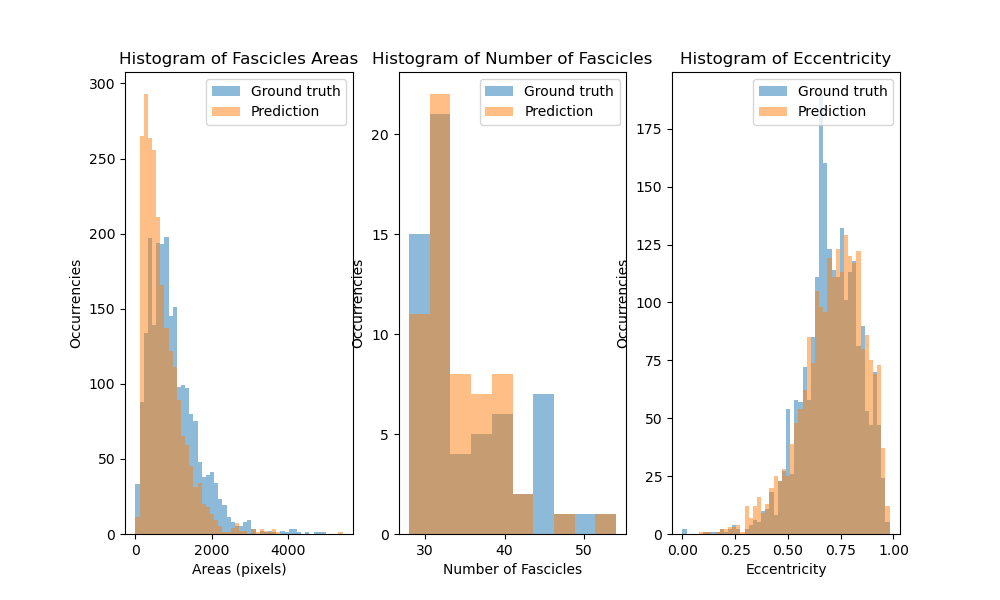
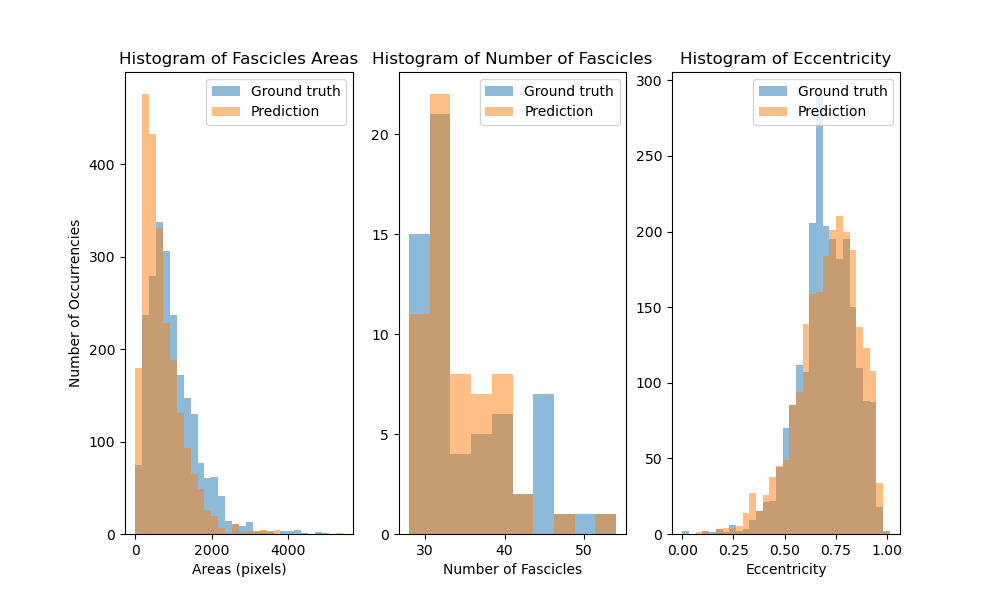
updating visualization

diff --git a/src/visualization.py b/src/visualization.py
@@ -6,6 +6,7 @@ import matplotlib.ticker as ticker
 import numpy as np
 from tensorflow import keras
 import tensorflow_addons as tfa
+import cv2
 from loss import dice_loss, nerve_segmentation_loss, tversky_loss, iou_score, focal_tversky_loss, focal_loss, custom_loss
 from eval import predict_mask, get_model_prediction
 from stats import get_samples, calculate_regions, compute_bins, get_image_histogram, get_dataset_histogram
@@ -26,28 +27,34 @@ def plot_color_histogram(path_list, dataset_path_list, save=False, show=True):
 
     set_hist = get_dataset_histogram(dataset_path_list)
     xticks = [i for i in range(256)]
+    color = ('r', 'g', 'b')
 
-    fig, axs = plt.subplots(len(path_list), 3, figsize=(10, len(path_list) * 2),  gridspec_kw={'width_ratios': [1, 2, 2]})
+    fig, axs = plt.subplots(len(path_list) + 1, 4, figsize=(10, (len(path_list)+1) * 2))
+
+    axs[0, 0].text(0.5, 0.5, 'Average on\ntraining set', horizontalalignment='center', verticalalignment='center', transform=axs[0, 0].transAxes)
+    axs[0, 0].axis('off')
+    for i, col in enumerate(color):
+        axs[0, i+1].plot(xticks, set_hist[i], color=col)
+        axs[0, i+1].set_xlabel('Colour value')
+    axs[0, 1].set_ylabel('% of pixels')
 
     for k, path in enumerate(path_list):
+        k = k+1
         img = np.load(path)
         img_hist = get_image_histogram(img)
-
         axs[k, 0].imshow(img)
+        axs[k, 0].axis('off')
 
-        axs[k, 1].bar(xticks, img_hist[0], color='red', alpha=0.3)
-        axs[k, 1].bar(xticks, img_hist[1], color='green', alpha=0.3)
-        axs[k, 1].bar(xticks, img_hist[2], color='blue', alpha=0.3)
-        # axs[k, 1].set_yscale('log')
+        for i, col in enumerate(color):
+            axs[k, i+1].plot(xticks, img_hist[i], color=col)
+        axs[k, 1].set_ylabel('% of pixels')
 
-        axs[k, 2].bar(xticks, set_hist[0], color='red', alpha=0.3)
-        axs[k, 2].bar(xticks, set_hist[1], color='green', alpha=0.3)
-        axs[k, 2].bar(xticks, set_hist[2], color='blue', alpha=0.3)
-        # axs[k, 2].set_yscale('log')
-
-    axs[0, 0].set_title('Original image')
-    axs[0, 1].set_title('Color histogram\nof image')
-    axs[0, 2].set_title('Color histogram\nof dataset')
+    axs[0, 1].set_title('Histogram of\nR channel')
+    axs[0, 2].set_title('Histogram of\nG channel')
+    axs[0, 3].set_title('Histogram of\nB channel')
+    axs[-1, 1].set_xlabel('Colour value')
+    axs[-1, 2].set_xlabel('Colour value')
+    axs[-1, 3].set_xlabel('Colour value')
 
     if save:
         plt.savefig(out_fname + '/color_histograms.png')
@@ -210,9 +217,9 @@ def plot_fascicles_distribution(paths, test=False, trained_model_checkpoint=None
 
     fig, axs = plt.subplots(1, 3, figsize=(10, 6))
 
-    nbins_area = 50
+    nbins_area = 30
     nbins_fascicles = 10
-    nbins_eccentricity = 50
+    nbins_eccentricity = 30
     if not test:
         # Computing the bins for the areas' histogram and plotting the histogram
         bins_areas = compute_bins(nbins_area, areas_pred, areas_mask)
@@ -230,21 +237,21 @@ def plot_fascicles_distribution(paths, test=False, trained_model_checkpoint=None
     # Histogram of Fascicles Areas for the predictions
     axs[0].hist(areas_pred, bins=bins_areas, alpha=0.5, label='Prediction')
     axs[0].set_xlabel('Areas (pixels)')
-    axs[0].set_ylabel('Occurrencies')
+    axs[0].set_ylabel('Number of Occurrencies')
     axs[0].legend(loc='upper right')
     axs[0].set_title('Histogram of Fascicles Areas')
 
     # Histogram of Number of fascicles Areas for the predictions
     axs[1].hist(num_fascicles_pred, bins=bins_fascicles, alpha=0.5, label='Prediction')
     axs[1].set_xlabel('Number of Fascicles')
-    axs[1].set_ylabel('Occurrencies')
+    #axs[1].set_ylabel('Number of Occurrencies')
     axs[1].legend(loc='upper right')
     axs[1].set_title('Histogram of Number of Fascicles')
 
     # Histogram of the Eccentricity
     axs[2].hist(eccentricity_pred, bins=bins_eccentricity, alpha=0.5, label='Prediction')
     axs[2].set_xlabel('Eccentricity')
-    axs[2].set_ylabel('Occurrencies')
+    #axs[2].set_ylabel('Number of Occurrencies')
     axs[2].legend(loc='upper right')
     axs[2].set_title('Histogram of Eccentricity')
 
@@ -273,7 +280,7 @@ def plot_postprocessed(path_list, trained_model_checkpoint=None, save=False, sho
         os.makedirs(output_folder, exist_ok=True)
         out_fname = output_folder
 
-    fig, axs = plt.subplots(len(path_list), 5, figsize=(10, len(path_list) * 2))
+    fig, axs = plt.subplots(len(path_list), 3, figsize=(6, len(path_list) * 2))
 
     # fig, axs = plt.subplots(1, 4, figsize=(10, 6))
 
@@ -282,7 +289,7 @@ def plot_postprocessed(path_list, trained_model_checkpoint=None, save=False, sho
         img = np.load(img_path)
         pred = get_model_prediction(trained_model, np.expand_dims(img, axis=0))[0, :, :]
         pred_post = predict_mask(trained_model, img, threshold=minimum_fascicle_area, coeff_list=watershed_coeff)
-        pred_out = draw_outliers_regions(pred_post)
+        pred_post = draw_outliers_regions(pred_post)
 
         axs[k, 0].imshow(img)
 
@@ -290,20 +297,13 @@ def plot_postprocessed(path_list, trained_model_checkpoint=None, save=False, sho
 
         axs[k, 2].imshow(pred_post, cmap='gray')
 
-        axs[k, 3].imshow(pred_out)
-
-        axs[k, 4].imshow(img)
-        axs[k, 4].imshow(pred_post, cmap='gray', alpha=0.5)
-
-        for i in range(5):
+        for i in range(3):
             axs[k, i].xaxis.set_major_locator(ticker.NullLocator())
             axs[k, i].yaxis.set_major_locator(ticker.NullLocator())
 
     axs[0, 0].set_title('Original Image')
     axs[0, 1].set_title('Prediction before\n postprocesing')
     axs[0, 2].set_title('Prediction after\n postprocessing')
-    axs[0, 2].set_title('Prediction with\n outliers displayed')
-    axs[0, 4].set_title('Prediction overlayed\n onto image')
 
 
     if save:
@@ -362,33 +362,31 @@ if __name__ == '__main__':
     model_save_file = os.path.join(os.getcwd(), model_path)
 
     ##################### Show Model Metrics ##########################################
-    # plot_model_losses_and_metrics('model_losses/BCE_Adam_default.pkl', 'BCE', save=True, show=True)
-    # plot_model_losses_and_metrics('model_losses/FL_Adam_default.pkl', 'FL', save=True, show=True)
-    # plot_model_losses_and_metrics('model_losses/FL_and_BCE_Adam_default.pkl', 'FL+BCE', save=True, show=True)
+    #plot_model_losses_and_metrics('model_losses/BCE_Adam_default.pkl', 'BCE', save=True, show=True)
+    #plot_model_losses_and_metrics('model_losses/FL_Adam_default.pkl', 'FL', save=True, show=True)
+    #plot_model_losses_and_metrics('model_losses/FL_and_BCE_Adam_default.pkl', 'FL+BCE', save=True, show=True)
 
     ##################### Show augmented images ##########################################
-    # sample_img_path = get_samples(train_folder, test=True)
-    # sample_img_path = sample_img_path[0]
-    # plot_augmented_images(sample_img_path, num_aug=0, num_aug_wcolor=6, save=True, show=True)
+    sample_img_path = get_samples(train_folder, test=True)
+    #sample_img_path = sample_img_path[0]
+    #plot_augmented_images(sample_img_path, num_aug=0, num_aug_wcolor=6, save=True, show=True)
+
+    ##################### Show mask vs prediction #######################################
+    path_list = get_samples(validation_folder, num_samples=3)
+    #plot_masks_vs_predictions(path_list=path_list, trained_model_checkpoint=model_save_file, wstats=True, save=True, show=True)
+    #plot_masks_vs_predictions(path_list=path_list, trained_model_checkpoint=model_save_file, save=True, show=True)
+
+    ##################### Show post processed prediction #############################################
+    unlabelled_sample_list = get_samples(unlabelled_folder, test=True, num_samples=3)
+    #plot_postprocessed(path_list=unlabelled_sample_list, trained_model_checkpoint=model_save_file, save=True, show=True)
 
     ##################### Show color histogram ##########################################
     dataset_path_list = get_samples(train_folder, test=True, num_samples=-1)
-    unlabelled_path_list = get_samples(unlabelled_folder, test=True, num_samples=3)
-    plot_color_histogram(unlabelled_path_list, dataset_path_list, save=True, show=True)
-
-    ##################### Show mask vs prediction #######################################
-    # path_list = get_samples(validation_folder, num_samples=3)
-    # plot_masks_vs_predictions(path_list=path_list, trained_model_checkpoint=model_save_file, wstats=True, save=True, show=True)
-    # plot_masks_vs_predictions(path_list=path_list, trained_model_checkpoint=model_save_file, save=True, show=True)
-
-    ##################### Show post processed prediction #############################################
-    # unlabelled_sample_list = get_samples(unlabelled_folder, test=True, num_samples=3)
-    # plot_postprocessed(path_list=unlabelled_sample_list, trained_model_checkpoint=model_save_file, save=True, show=True)
+    #color_histogram_list = [unlabelled_sample_list[2]]
+    color_histogram_list = unlabelled_sample_list
+    plot_color_histogram(color_histogram_list, dataset_path_list, save=True, show=True)
 
     #################### Show distributions #############################################
-    # sample_train = get_samples(train_folder, num_samples=-1)
-    # plot_fascicles_distribution(sample_train, trained_model_checkpoint=model_save_file, save=True, show=True, postprocessing = False)
-    # plot_fascicles_distribution(sample_train, trained_model_checkpoint=model_save_file, save=True, show=True, postprocessing=True)
-
-
-
+    #sample_train = get_samples(train_folder, num_samples=-1)
+    #plot_fascicles_distribution(sample_train, trained_model_checkpoint=model_save_file, save=True, show=True, postprocessing = False)
+    #plot_fascicles_distribution(sample_train, trained_model_checkpoint=model_save_file, save=True, show=True, postprocessing=True)

diff --git a/src/config.py b/src/config.py
@@ -23,8 +23,8 @@ def initialise_run():
     # devices = tf.config.experimental.list_physical_devices('GPU')
     # tf.config.experimental.set_memory_growth(devices[0], True)
     # os.chdir('/home/albion/code/epfl/ml/nerve-segmentation')
-    os.chdir('D:/EPFL/ML/projects/nerve-segmentation/')
-    # os.chdir('C:/Users/ivanb/Documents/GitHub/ML Project 2')
+    # os.chdir('D:/EPFL/ML/projects/nerve-segmentation/')
+    os.chdir('C:/Users/ivanb/Documents/GitHub/ML Project 2')
     os.makedirs('model_checkpoints', exist_ok=True)
     os.makedirs('model_losses', exist_ok=True)
     random.seed(seed)

diff --git a/src/stats.py b/src/stats.py
@@ -71,7 +71,7 @@ def compute_area_ratio(sample_train):
 # compute color histograms of an image
 def get_image_histogram(img):
     hist = np.zeros([3, 256])
-    
+
     img_ = np.floor(img * 255)
     
     for x in range(img_.shape[0]):
@@ -83,7 +83,8 @@ def get_image_histogram(img):
             hist[0, r] += 1
             hist[1, g] += 1
             hist[2, b] += 1
-    
+    # Percentage of pixels
+    hist = hist / (img.shape[0] * img.shape[1]) * 100
     return hist
 
 # compute color histograms of a images dataset

diff --git a/src/post_processing.py b/src/post_processing.py
@@ -9,7 +9,7 @@ def get_outlier_regions(regions, area_threshold=3101, eccen_threshold=[0.33, 0.9
             outliers.append(r)
     return outliers
 
-def draw_outliers_regions(input_mask, area_threshold=3101, eccen_threshold=[0.33, 0.95]):
+def draw_outliers_regions(input_mask, area_threshold=3101, eccen_threshold=[0, 0.95]):
     modified = np.dstack(([input_mask, input_mask, input_mask]))
     regions = calculate_regions(input_mask)[0]
     outliers = get_outlier_regions(regions, area_threshold, eccen_threshold)
